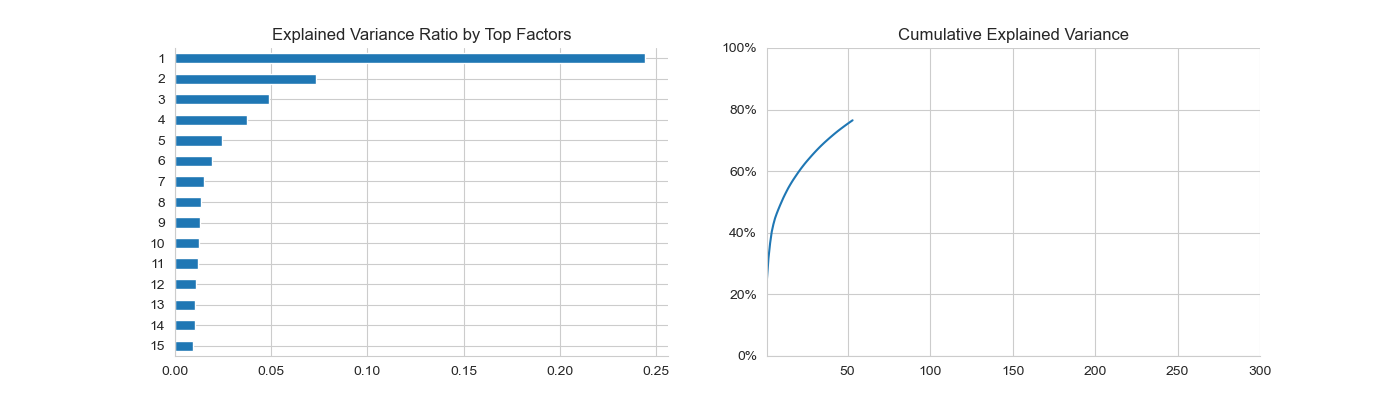
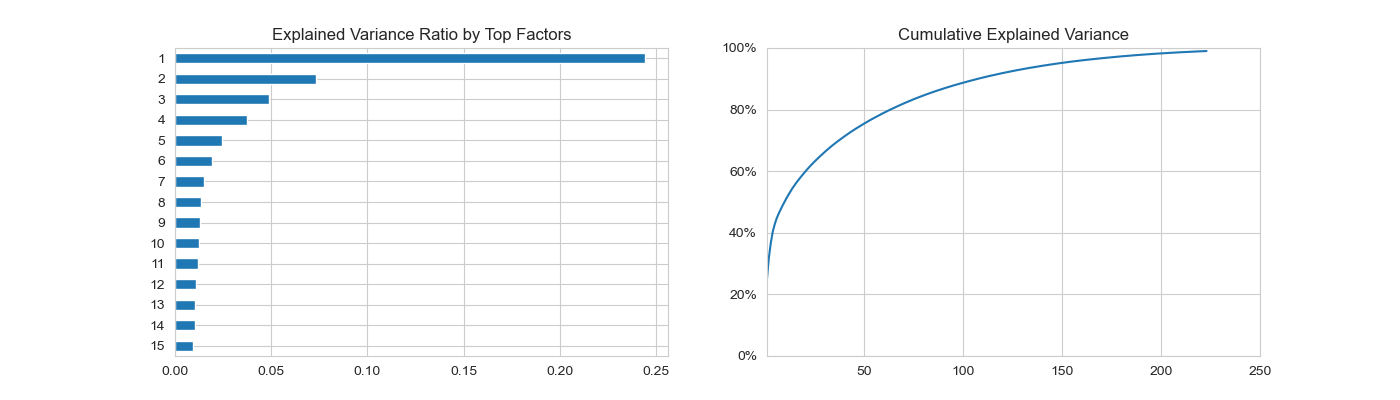
pca, manifold

diff --git a/src/13 unsupervised_learning/01_linear_dimensionality_reduction/03_pca_and_risk_factor_models.py b/src/13 unsupervised_learning/01_linear_dimensionality_reduction/03_pca_and_risk_factor_models.py
@@ -67,7 +67,8 @@ returns = returns.apply(lambda x: x.fillna(daily_avg))
 # components using the full SVD algorithm:
 cov = np.cov(returns, rowvar=False)
 
-pca = PCA(n_components="mle")
+# pca = PCA(n_components="mle")
+pca = PCA(n_components=0.99)
 pca.fit(returns)
 
 ### Visualize Explained Variance
@@ -83,10 +84,9 @@ var_expl = pd.Series(pca.explained_variance_ratio_)
 var_expl.index += 1
 var_expl.iloc[:15].sort_values().plot.barh(title=title, ax=axes[0])
 var_expl.cumsum().plot(
-    ylim=(0, 1), ax=axes[1], title="Cumulative Explained Variance", xlim=(1, 300)
+    ylim=(0, 1), ax=axes[1], title="Cumulative Explained Variance", xlim=(1, 250)
 )
 axes[1].yaxis.set_major_formatter(FuncFormatter(lambda y, _: f"{y:.0%}"))
-sns.despine()
 plt.savefig("images/04-01.png", bboxinches="tight")
 
 risk_factors = pd.DataFrame(
@@ -97,7 +97,7 @@ risk_factors = pd.DataFrame(
 risk_factors.info()
 
 # We can select the top two principal components to verify that they are indeed uncorrelated:
-risk_factors["Principal Component 1"].corr(risk_factors["Principal Component 2"])
+print(risk_factors["Principal Component 1"].corr(risk_factors["Principal Component 2"]))
 
 # Moreover, we can plot the time series to highlight how each factor captures different volatility patterns.
 with sns.axes_style("white"):
@@ -110,7 +110,6 @@ with sns.axes_style("white"):
         lw=1,
         xlim=(risk_factors.index.min(), risk_factors.index.max()),
     )
-    sns.despine()
     plt.savefig("images/04-02.png", bboxinches="tight")
 
 # A risk factor model would employ a subset of the principal components as features to predict future returns,
@@ -120,19 +119,19 @@ idx = pd.IndexSlice
 with pd.HDFStore("../../data/assets.h5") as store:
     returns = (
         store["quandl/wiki/prices"]
-        .loc[idx["2000":"2018", :], "adj_close"]
+        .loc[idx["2010":"2018", :], "adj_close"]
         .unstack("ticker")
         .pct_change()
     )
 
 pca = PCA()
-n_trials, n_samples = 100, 500
+n_trials, n_samples = 10, 200
 explained = np.empty(shape=(n_trials, n_samples))
 for trial in range(n_trials):
     returns_sample = returns.sample(n=n_samples, replace=True)
     returns_sample = returns_sample.dropna(thresh=int(returns_sample.shape[0] * 0.95), axis=1)
     returns_sample = returns_sample.dropna(thresh=int(returns_sample.shape[1] * 0.95))
-    daily_avg = returns_sample.mean(1)
+    daily_avg = returns_sample.mean(axis=1)
     returns_sample = returns_sample.apply(lambda x: x.fillna(daily_avg))
     pca.fit(returns_sample)
     explained[trial, : len(pca.components_)] = pca.explained_variance_ratio_
@@ -143,13 +142,13 @@ explained.info()
 fig, axes = plt.subplots(ncols=2, figsize=(14, 4.5))
 pc10 = explained.iloc[:, :10].stack().reset_index()
 pc10.columns = ["Trial", "Principal Component", "Value"]
+print(pc10)
 
 pc10["Cumulative"] = pc10.groupby("Trial").Value.transform(np.cumsum)
 sns.barplot(x="Principal Component", y="Value", data=pc10, ax=axes[0])
 sns.lineplot(x="Principal Component", y="Cumulative", data=pc10, ax=axes[1])
 axes[1].set_xlim(1, 10)
 axes[1].yaxis.set_major_formatter(FuncFormatter(lambda y, _: f"{y:.0%}"))
-fig.suptitle("Explained Variance of Top 10 Principal Components | 100 Trials")
-sns.despine()
+fig.suptitle(f"Explained Variance of Top 10 Principal Components | {n_trials} Trials")
 fig.subplots_adjust(top=0.90)
 plt.savefig("images/04-03.png", bboxinches="tight")
